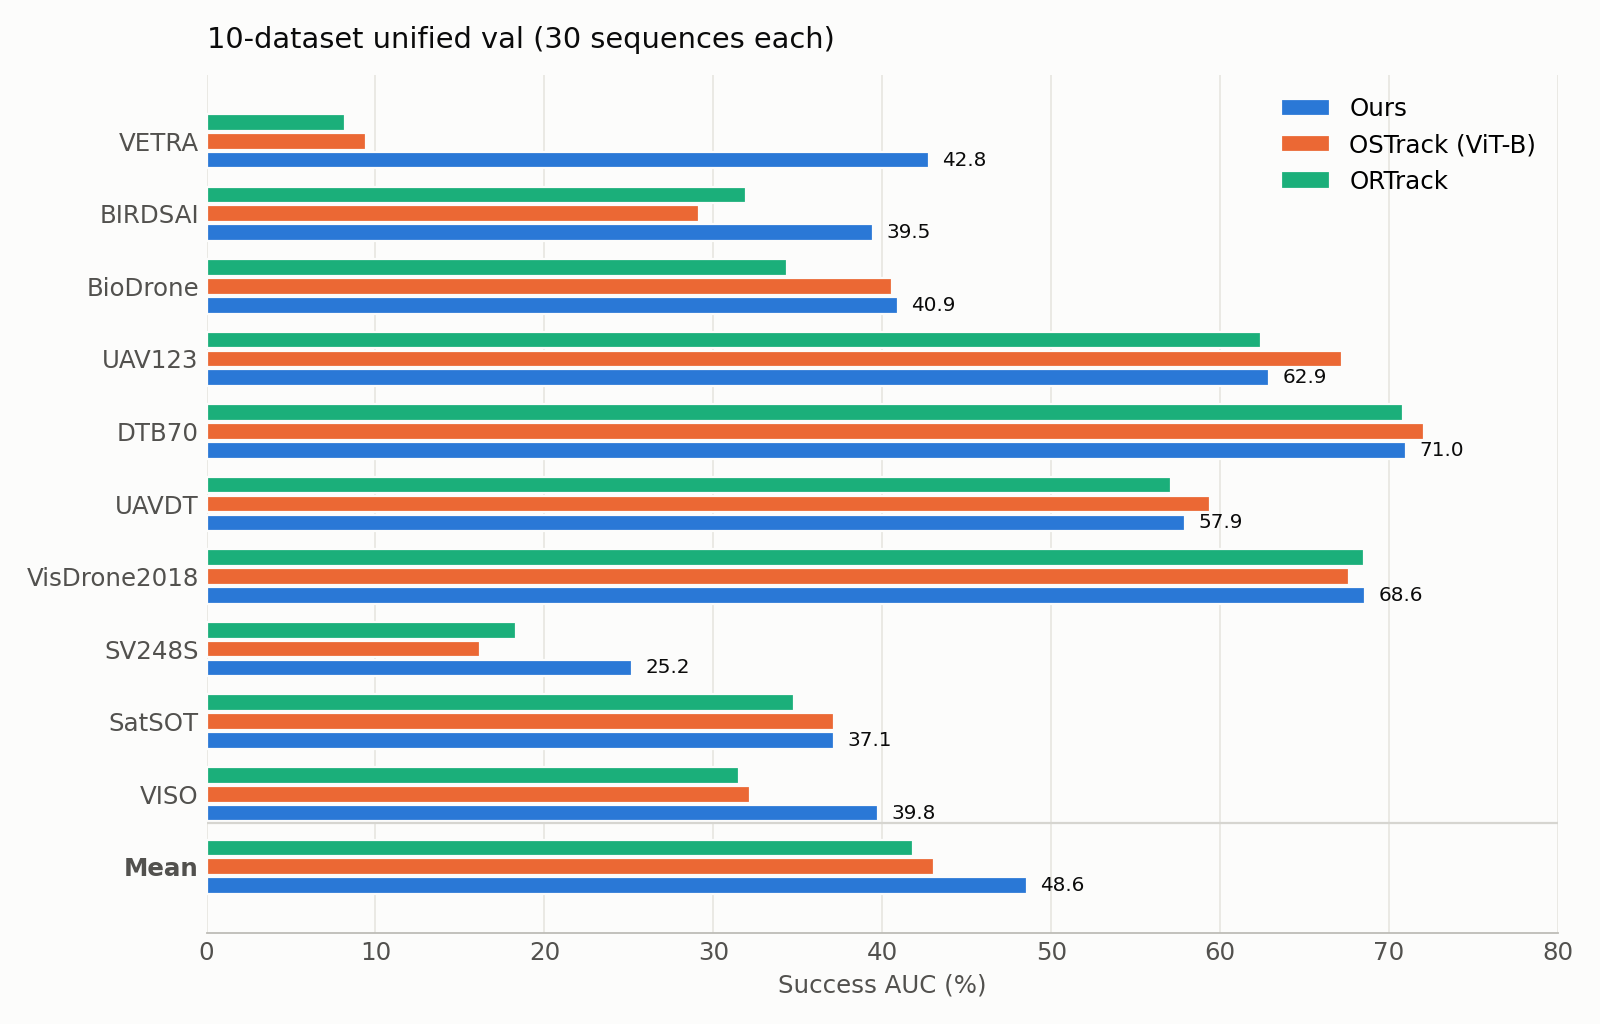
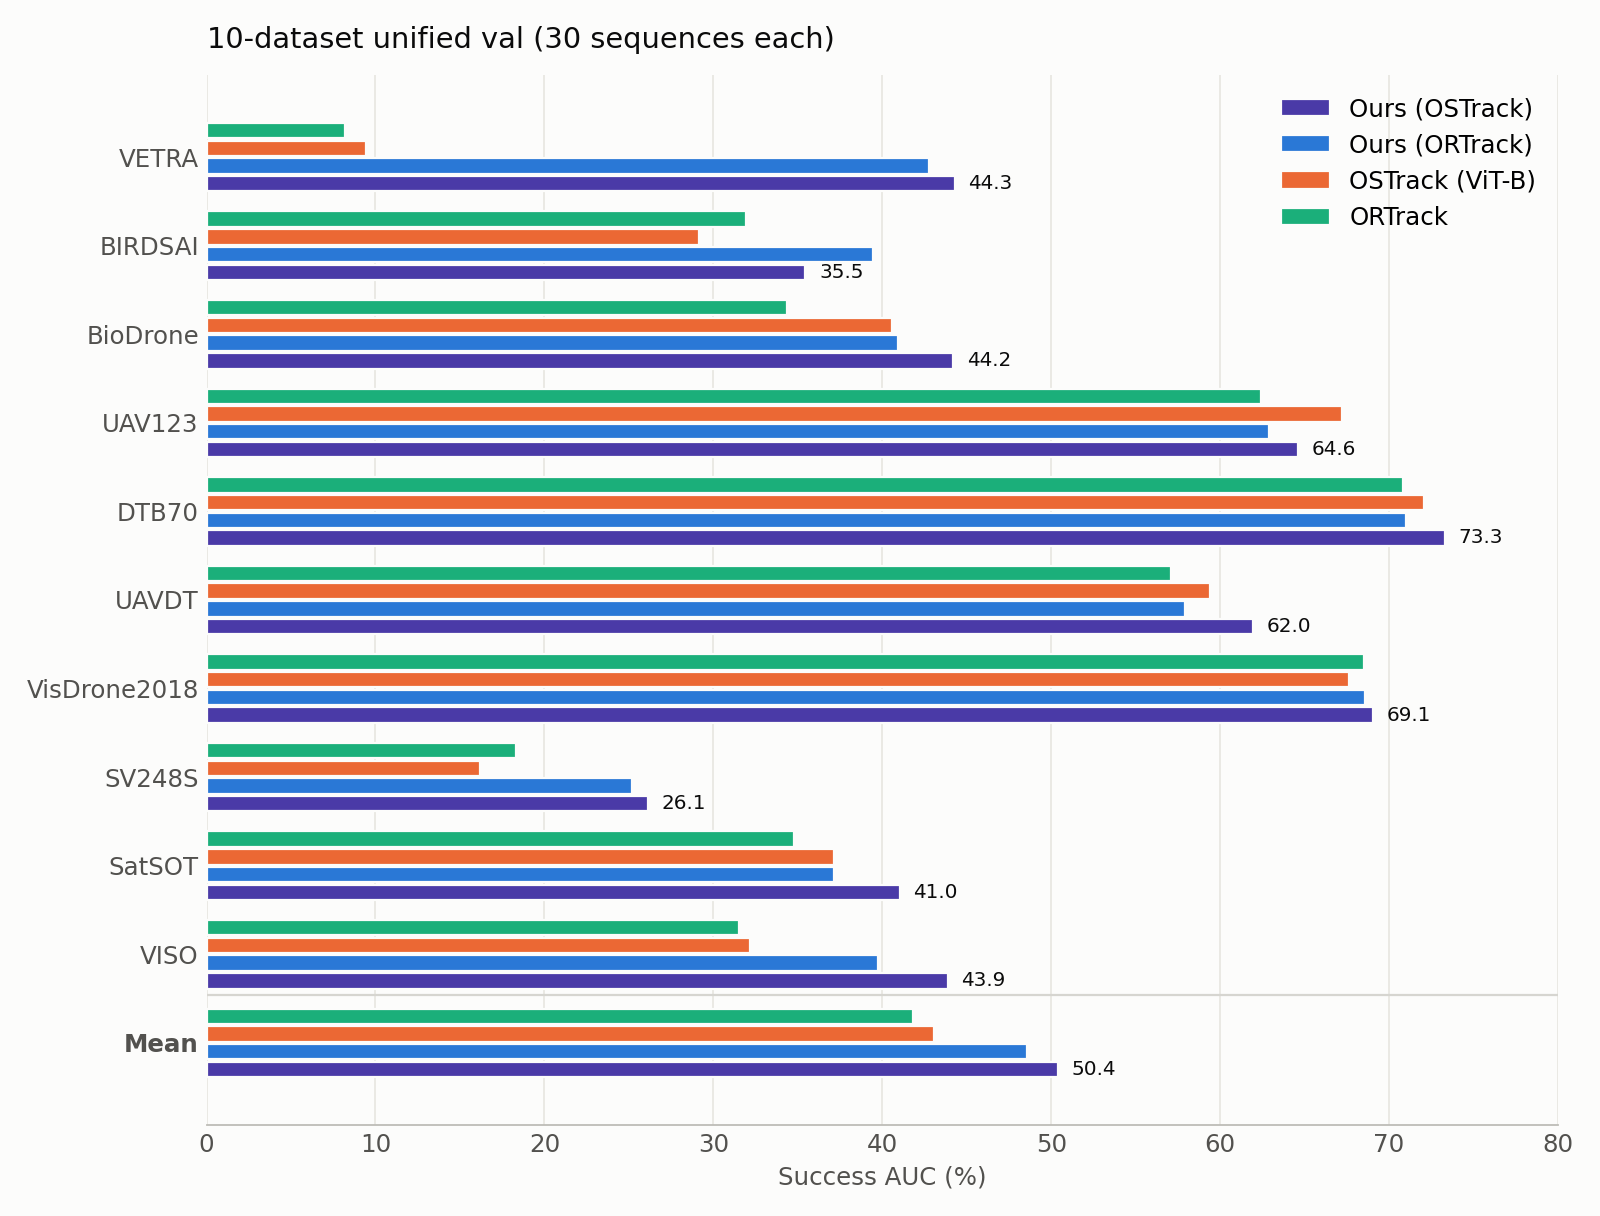
upload

Changed region(s): [[0.0312, 0.0938, 1.0, 0.9688], [0.7812, 0.0625, 0.9688, 0.1875], [0.125, 0.0, 0.5312, 0.0625]]

diff --git a/README.md b/README.md
@@ -66,25 +66,25 @@
   <img src="assets/datasets.jpg" width="100%">
 </p>
 
-| 데이터 | 종류 | ORTrack | OSTrack (ViT-B) | **Ours** |
-|---|---|---:|---:|---:|
-| VETRA | 유인기, 1fps | 8.21 | 9.42 | **42.75** |
-| BIRDSAI | 고정익, 열화상 | 31.96 | 29.13 | **39.45** |
-| BioDrone | 날갯짓 드론 | 34.37 | 40.57 | **40.92** |
-| UAV123 | 멀티콥터 | 62.44 | **67.21** | 62.88 |
-| DTB70 | 멀티콥터 | 70.85 | **72.05** | 70.99 |
-| UAVDT | 멀티콥터 | 57.11 | **59.37** | 57.93 |
-| VisDrone2018 | 멀티콥터 | 68.52 | 67.65 | **68.60** |
-| SV248S | 위성, 극소형 | 18.30 | 16.21 | **25.16** |
-| SatSOT | 위성, 극소형 | 34.77 | 37.12 | **37.15** |
-| VISO | 위성, 극소형 | 31.49 | 32.19 | **39.75** |
-| **평균** | | 41.80 | 43.09 | **48.56** |
+| 데이터 | 종류 | ORTrack | **+ Ours** | OSTrack (ViT-B) | **+ Ours** |
+|---|---|---:|---:|---:|---:|
+| VETRA | 유인기, 1fps | 8.21 | 42.75 | 9.42 | **44.28** |
+| BIRDSAI | 고정익, 열화상 | 31.96 | **39.45** | 29.13 | 35.45 |
+| BioDrone | 날갯짓 드론 | 34.37 | 40.92 | 40.57 | **44.19** |
+| UAV123 | 멀티콥터 | 62.44 | 62.88 | **67.21** | 64.59 |
+| DTB70 | 멀티콥터 | 70.85 | 70.99 | 72.05 | **73.28** |
+| UAVDT | 멀티콥터 | 57.11 | 57.93 | 59.37 | **61.95** |
+| VisDrone2018 | 멀티콥터 | 68.52 | 68.60 | 67.65 | **69.07** |
+| SV248S | 위성, 극소형 | 18.30 | 25.16 | 16.21 | **26.13** |
+| SatSOT | 위성, 극소형 | 34.77 | 37.15 | 37.12 | **41.05** |
+| VISO | 위성, 극소형 | 31.49 | 39.75 | 32.19 | **43.89** |
+| **평균** |  | 41.80 | 48.56 | 43.09 | **50.39** |
 
 <p align="center">
   <img src="assets/auc_10datasets.png" width="80%">
 </p>
 
-<sub>Ours는 현재 흔들림·작은 표적 방법까지 적용한 학습 없는 버전(공식 ORTrack 가중치)입니다. 오추적 방법과 교사 학습은 학습 중입니다. SV248S는 첫 프레임 정답이 없는 2개를 빼고 28개로 계산했습니다.</sub>
+<sub>+ Ours는 각 추적기의 공식 가중치에 흔들림·작은 표적 방법만 붙인 학습 없는 버전입니다. 두 추적기 모두 평균이 6.8~7.3점 오릅니다. 오추적 방법과 교사 학습은 학습 중입니다. SV248S는 첫 프레임 정답이 없는 2개를 빼고 28개로 계산했습니다.</sub>
 
 ### 정성 결과
 
